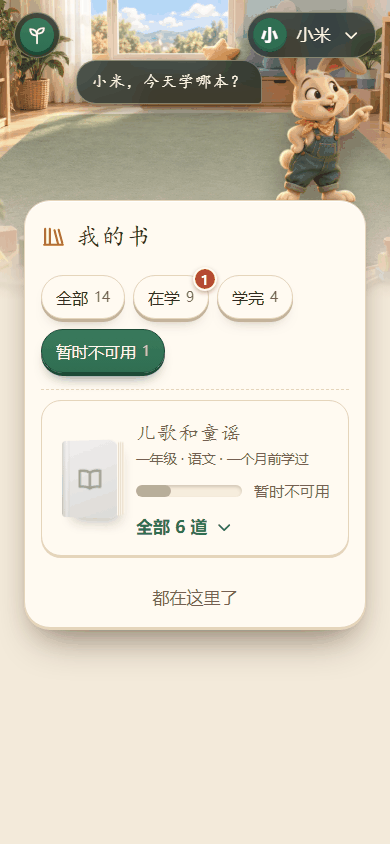
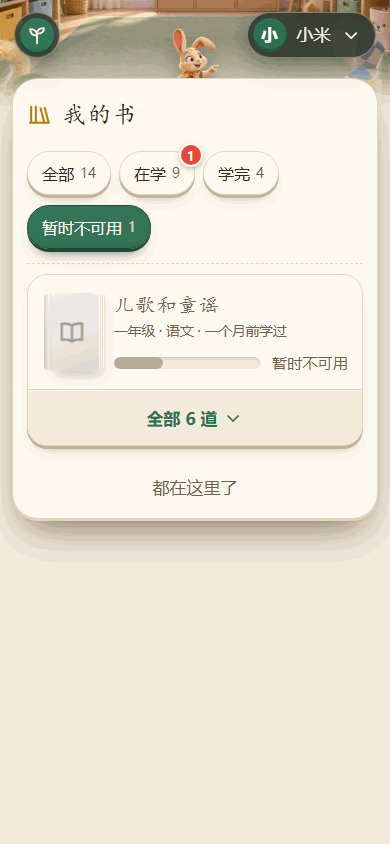
docs(design): make the book card's expand row full width and the child's home top compact (#221)
Each book card ends in a full-width 「全部 n 道」 row and the whole collapsed
card expands it; expanded, that row moves below the problems as the only
「收起」. Unavailable books drop the explanatory line and keep an active
expand row. The home's top is a low scene band with the rabbit peeking over
the shelf card, without the greeting. The opened_at column ships together
with its write on opening a problem.

Claude-Session: https://claude.ai/code/session_0183GQ8FhHwyn6e9ziTU6t6w

diff --git a/docs/design/book-access.md b/docs/design/book-access.md
@@ -1,6 +1,6 @@
 # 孩子只学安排的书，访客看不到题目
 
-- 状态：需求已由维护者 2026-11-12 确认，写进 [REQ-001、REQ-009、REQ-010](../product/requirements.md) 和 [vision.md](../product/vision.md)。登录页、题目页和预览模式的样稿维护者已看过；孩子首页按第四轮意见重画，等维护者确认。
+- 状态：需求已由维护者 2026-11-12 确认，写进 [REQ-001、REQ-009、REQ-010](../product/requirements.md) 和 [vision.md](../product/vision.md)。登录页、题目页和预览模式的样稿维护者已确认；孩子首页按第五轮意见重画，等维护者确认。
 - 需求：REQ-001、REQ-009、REQ-010（2026-11-12 修改），REQ-002、REQ-011。样稿见 [#221 记录](../evidence/221/README.md)，变更原因见 [变更记录](../changes/2026-11-12-book-access.md)。
 - 涉及：`libs/contracts`（打开一道题的回答、拒绝的回答、预览作答、孩子的书）、`apps/api`（题目和题目下面全部接口的访问检查、预览作答、孩子的书的筛选、排序和新书标记；去掉公开题库）、`apps/web`（登录首页、孩子首页和顶栏、题目页、预览模式、凸起的公共部件、家长书架的空状态）、`e2e`、`visual`。书、书的状态和安排沿用 [家长书架与按书安排练习](bookshelf.md)。
 
@@ -11,7 +11,7 @@
 之后：
 
 - **访客**打开首页看到登录页：孩子登录和家长登录两个页签。打开题目链接只看到「登录后才能打开这道题」，看不到题目的任何内容。
-- **孩子**登录后首页就是自己的空间「我的书」：新安排的书在最上面，「在学」上的红点告诉孩子有几本新书；每本书是一块能展开的凸起卡片，书名、进度条和「全部 n 道」在一起，展开才看到书里的题。只能打开安排给自己的书里的题，没安排的由服务端拒绝。顶栏只有品牌和自己的头像，头像菜单里退出登录。
+- **孩子**登录后首页就是自己的空间「我的书」：书从屏幕上方不远处就开始；新安排的书在最上面，「在学」上的红点告诉孩子有几本新书；每本书是一块能展开的凸起卡片，最下面一整行「全部 n 道」，展开才看到书里的题。只能打开安排给自己的书里的题，没安排的由服务端拒绝。顶栏只有品牌和自己的头像，头像菜单里退出登录。
 - 一道题有两种模式：**做题模式**给孩子，作答、进度和草稿照常记录；**预览模式**给家长，课照常走、答案照常判，什么都不记录。
 - 家长取消安排后，这本书从孩子的首页消失；进度不清零，重新安排后接着原来的进度（#179 的规则不变）。
 
@@ -32,22 +32,22 @@
 
 维护者要整个网站和课堂的画面一样有立体感，孩子首页尤其如此；按钮和部件全站一个样式。本设计画的页面都按下面的做法，家长空间的改版另开 issue：
 
-- **页面顶上是一幅有景深的画**：绘景库里的场景铺满宽度，下沿淡进页面底色，讲课角色站在画里；卡片压在画的下沿上，像放在画里的桌面上。
-- **能按的东西都是同一种凸起**：一层纸色或主色的面、下面一道 3px 的深色边、一层柔和的投影；按下时往下沉 2px、边变成 1px；不能按（加载中、暂时不可用）时变平，没有边和投影。
+- **页面顶上是有景深的画**：绘景库里的场景，下沿淡进页面底色，讲课角色在画里。登录页的画占半屏，角色站在画里；孩子首页的画是一条矮的横幅，卡片压在它的下沿上，角色站在卡片后面探出头，像趴在桌子后面。画只给景深，不占孩子要用的地方。
+- **能按的东西都是同一种凸起**：一层纸色或主色的面、下面一道 3px 的深色边、一层柔和的投影；按下时往下沉 2px、边变成 1px；不能按（加载中、暂时不可用的书里的题）时变平，没有边和投影。
 
-  | 级别         | 用在哪里                                           | 尺寸                          |
-  | ------------ | -------------------------------------------------- | ----------------------------- |
-  | 课堂里的露珠 | 题目页的返回、提示、话筒、开始短片                 | 52px 以上，烟色玻璃           |
-  | 主按钮       | 每页最要紧的一步：登录、「去登录」、「回到我的书」 | 高 48px，主色                 |
-  | 次按钮       | 「加载更多」、「再试一次」                         | 高 48px，纸色                 |
-  | 筹码         | 筛选、登录页签的滑块                               | 高 44px，选中主色、没选中纸色 |
-  | 卡片和列表块 | 孩子首页的书和书里的题、头像菜单里的「退出登录」   | 每行高 48–54px，纸色          |
+  | 级别         | 用在哪里                                                     | 尺寸                          |
+  | ------------ | ------------------------------------------------------------ | ----------------------------- |
+  | 课堂里的露珠 | 题目页的返回、提示、话筒、开始短片                           | 52px 以上，烟色玻璃           |
+  | 主按钮       | 每页最要紧的一步：登录、「去登录」、「回到我的书」           | 高 48px，主色                 |
+  | 次按钮       | 「加载更多」、「再试一次」                                   | 高 48px，纸色                 |
+  | 筹码         | 筛选、登录页签的滑块                                         | 高 44px，选中主色、没选中纸色 |
+  | 卡片和列表块 | 孩子首页的书、书里的题和展开按钮行、头像菜单里的「退出登录」 | 每行高 54–56px，纸色          |
 
   课堂里的按钮可以更大，课堂以外的按钮彼此一样；这些做成 `shared/ui` 的公共部件和令牌，[网站视觉语言](visual-language.md) 随之补上这一节。
 
 - **输入框和进度条的槽是凹下去的**：内侧上沿一道浅投影。
 - **书是立体的**：封面往里转一点角度，左边一道书脊的明暗，右边露出书页的边。
-- **画面上的字和按钮是烟色玻璃**：顶栏的品牌和头像、角色的对白气泡、题目页的提示卡都用 `--dew-*` 令牌，和课堂里的控件一样。
+- **画面上的字和按钮是烟色玻璃**：顶栏的品牌和头像、题目页的提示卡都用 `--dew-*` 令牌，和课堂里的控件一样。
 - 打开「减少动态效果」时只去掉动效，凸起、投影和景深都保留。
 
 ## 页面
@@ -74,11 +74,11 @@
 
 ### 首页：登录的孩子
 
-**顶栏**：叠在画的上沿，左边是品牌（烟色玻璃胶囊里的图标和「小小探索家」，手机上只有图标），点了回到首页顶部；右边是孩子的头像和昵称（烟色玻璃胶囊，带向下的箭头），点了弹出一张凸起的菜单，只有一项「退出登录」。退出后回到首页的登录页，换一个孩子就在那里登录。不放「孩子注册」（已经注册并登录了）、「家长空间」（家长从登录页的家长页签或 `/family` 进去，孩子的屏幕上不需要）和「孩子空间」（首页就是）。
+**顶上**是一条矮的画：白天是玩具教室（`toy-classroom-day`），晚上是雨夜的图书角（`library-corner-rainy`），电脑上高 150px，手机上高 112px，下沿淡进页面底色。没有问候语：书的卡片就是孩子要看的东西，越早出现越好。
 
-**画**：白天是玩具教室（`toy-classroom-day`），晚上是雨夜的图书角（`library-corner-rainy`），小兔站在右边，旁边一个烟色玻璃气泡「小米，今天学哪本？」（孩子的昵称）。
+**顶栏**叠在画上：左边是品牌（烟色玻璃胶囊里的图标和「小小探索家」，手机上只有图标），点了回到首页顶部；右边是孩子的头像和昵称（烟色玻璃胶囊，带向下的箭头），点了弹出一张凸起的菜单，只有一项「退出登录」。退出后回到首页的登录页，换一个孩子就在那里登录。不放「孩子注册」（已经注册并登录了）、「家长空间」（家长从登录页的家长页签或 `/family` 进去，孩子的屏幕上不需要）和「孩子空间」（首页就是）。
 
-**「我的书」卡片**压在画的下沿，标题左边是一排立着的书的图标。卡片里从上到下是筛选、书、加载更多。
+**「我的书」卡片**压在画的下沿（电脑上压进 62px，手机上压进 34px），标题左边是一排立着的书的图标。小兔站在卡片后面，只从卡片上沿探出头和肩：电脑上在卡片右边，手机上在品牌和头像中间；它是装饰，读屏不读。卡片里从上到下是筛选、书、加载更多。
 
 #### 筛选
 
@@ -120,26 +120,31 @@
 
 #### 一本书
 
-每本书是一块凸起的卡片，**收起时整块就是一个按钮**（`aria-expanded`）：
+每本书是一块凸起的卡片，上面是书，最下面一整行是展开按钮：
 
 - 左边立体的封面（没有封面时是默认封面）。
 - 右边书名，下面一行小字「年级 · 科目 · 什么时候」（「今天学过」「3 天前学过」，新书写「刚刚安排」「昨天安排」，打开过没作答的写「还没做」）。
 - 再下面一条**进度条**：凹下的槽里一段凸起的主色，右边写「5 / 12」；学完时整条变成绿色，右边是带勾的「学完」。
-- 最下面「全部 n 道」和向下的箭头。点卡片上任何地方都展开，书里的题不会在收起时露出来，哪一道都不比别的更显眼。
+- 卡片最下面**一整行「全部 n 道」**和向下的箭头：横跨整张卡片、高 56px，和上面隔一道细线，底色比卡片深一点（`--surface-2`），字是主色、加粗、居中。这是卡片上最显眼的一块，手指往哪里落都按得到。
+
+**收起时整张卡片是一个按钮**（`aria-expanded="false"`，`aria-controls` 指向题目列表）：点封面、书名、进度条或最下面那一行都展开。读屏把它读成一个按钮：「拼音乐园，新书，0 / 10，全部 10 道」。收起时书里的题不露出来，哪一道都不比别的更显眼。
 
 **展开时**卡片在页面上原地变长：
 
-- 头部的「全部 n 道」换成「收起」和向上的箭头，头部仍然是收起的按钮。
-- 下面一行一道，列出书里的全部题，所有屏幕上都是一列，题名完整显示、太长就折行；每行是序号、题名，做完的后面一个勾，最右一个向右的箭头，高 54px，整行都能点，点了以做题模式打开这道题。
-- 最后一行再放一个「收起」，长的书翻到底也能收起。
+- 书的下面一行一道，列出书里的全部题，所有屏幕上都是一列，题名完整显示、太长就折行；每行是序号、题名，做完的后面一个勾，最右一个向右的箭头，高 54px，整行都能点，点了以做题模式打开这道题。
+- 「全部 n 道」那一行跟着列表移到最下面，变成**「收起」**和向上的箭头。整张卡片只有这一个「收起」，在列表的最后。
+- 上面的封面、书名和进度条这时不再是按钮：孩子伸手去点第 1 道题时，不会误点到收起。
+- 动画：按下「全部 n 道」，列表从书的下面往下长开（约 250ms），这一行被列表推到底，同时字换成「收起」、箭头转向上；按「收起」反过来，列表合上，这一行回到书的下面、换回「全部 n 道」。收起时书已经滚出屏幕顶的，页面滚回到这本书。打开「减少动态效果」时直接展开和收起，不滚动动画。
+- 键盘：用键盘展开时焦点移到第 1 道题，Tab 一道道往下走到「收起」；收起后焦点在「全部 n 道」上。
 - 不用下拉框或弹出层：手指在页面上上下滑就能看完，点哪一行就进哪一道题。
-- 一次只展开一本书：展开另一本时，前一本收起，页面保持刚点的那本书的书名在屏幕里。
+- 一次只展开一本书：展开另一本时，前一本收起，页面保持刚点的那本书在屏幕里。
 - 展开的是哪本书写进地址（`&open=<书 id>`），从题目页返回时还展开着、停在原来的位置。
 
 **暂时不可用的书**：
 
-- 卡片变平（没有凸起的边），封面变灰；书名、小字和右边的「暂时不可用」都是同一种灰色、正常字重；进度条变灰，不是主色也不是绿色。
-- 照样能展开，看到书里有哪些题、做完的打勾。展开后列表最上面一行写「这本书暂时不可用，里面的题先打不开。」，题目行变平、灰色、没有向右的箭头，点了没有反应：理由已经写在列表最上面，不用再弹提示。
+- 卡片照样凸起（它仍然能展开）；封面变灰，书名、小字和进度条右边的「暂时不可用」都是同一种灰色、正常字重；进度条变灰，不是主色也不是绿色。
+- 最下面的「全部 n 道」和展开后的「收起」和别的书一样，是主色、能按的按钮，不变灰。
+- 展开后看到书里有哪些题、做完的打勾；题目行变平、灰色、没有向右的箭头，`aria-disabled`，读屏读「暂时不可用」，点了没有反应。为什么打不开，卡片上已经写着「暂时不可用」，列表里不再重复一行说明，也不弹提示。
 
 #### 加载更多
 
@@ -307,6 +312,7 @@ book_assignments
 - 取消安排删除这一行，再安排插入新的一行，`opened_at` 是空，所以又是新书。
 - 不写进家庭导出：它只决定首页上的新书标记，不是学习记录。删除家庭时跟着这一行一起删除；备份的逐表行数不变。
 - 迁移的编号排在 #217、#164 的迁移之后，合并时按顺序重排。
+- 这一列、首页的新书标记和打开题时的写入一起上线：只有列和标记、没有写入的话，孩子打开过的书也会一直显示成新书。
 
 ## 不受保护的部分
 
@@ -316,7 +322,8 @@ book_assignments
 
 - `apps/api`：先做一个不改行为的重构，让题目下面的孩子接口（作答、草稿和三个 AI 接口）都从同一个「孩子 + 题目」入口进来，现在它只确认孩子会话；之后访问检查只加在这个入口里。打开一道题由外层的组装文件按会话选孩子或家长的判断，再交给 `catalog` 的路由；`catalog` 不依赖 `learning`。预览作答放在 `learning` 里，和孩子作答共用判定。孩子的书的筛选、计数、新书和排列是 `learning/domain/bookshelf.ts` 里的纯函数。
 - `libs/contracts`：`ProblemOpening`、`ProblemAccessDenied`、预览作答的请求和回答；孩子的书的 `counts`、`studiedAt`、`fresh` 和 `books` 参数；去掉 `CatalogResponse`。
-- `apps/web`：凸起的按钮、筹码、卡片、列表块、进度条和立体封面做成 `shared/ui` 的公共部件；首页按会话选登录页或「我的书」，登录页复用 `AccountLayout`、孩子和家长的登录组件；孩子的顶栏替换现在的网站导航，`/child` 转到首页；书的卡片头部是展开按钮（`aria-expanded`、`aria-controls` 指向题目列表）；加载方式按 `(pointer: coarse)` 选自动加载或按钮；`ProblemPage` 先看会话，再按 `mode` 和 `reason` 选画法；课堂页面收到的不再是可有可无的 `csrf`，而是「做题模式（孩子的 CSRF）」或「预览模式（家长的 CSRF）」两种之一：预览模式用同一个画面和同一套反馈，作答和提示走预览接口，不放话筒、提问和草稿，加上「预览」标记。
+- `apps/web`：凸起的按钮、筹码、卡片、列表块、进度条和立体封面做成 `shared/ui` 的公共部件；首页按会话选登录页或「我的书」，登录页复用 `AccountLayout`、孩子和家长的登录组件；孩子的顶栏替换现在的网站导航，`/child` 转到首页；加载方式按 `(pointer: coarse)` 选自动加载或按钮；`ProblemPage` 先看会话，再按 `mode` 和 `reason` 选画法；课堂页面收到的不再是可有可无的 `csrf`，而是「做题模式（孩子的 CSRF）」或「预览模式（家长的 CSRF）」两种之一：预览模式用同一个画面和同一套反馈，作答和提示走预览接口，不放话筒、提问和草稿，加上「预览」标记。
+- 书的卡片是一个展示组件，只收书和「展开 / 收起」「打开第几道题」的回调：展开按钮是卡片里唯一的 `<button>`（`aria-expanded`、`aria-controls`），放在题目列表之后，收起时整张卡片的点击也交给它；题目列表的展开用高度过渡，`prefers-reduced-motion` 时不过渡。
 - 题目页的 `LessonRoute` 和 #210 的课堂记录都改这一带，合并时按顺序处理。
 
 ## 测试
@@ -331,7 +338,7 @@ book_assignments
   - 取消安排后 403，重新安排后 200，进度不变，又是新书。
   - 孩子的书：`counts`、`studiedAt`、`fresh`、每个筛选、顺序和分页。
   - 迁移：从上一个迁移带数据升级后，已有的安排 `opened_at` 为空。
-- 网页：凸起部件的每种状态（平常、按下、选中、不能按）；登录页两个页签（孩子、家长、家长已登录、「忘了 PIN」展开）；孩子顶栏的头像菜单；孩子首页（每个筛选、红点、「新」字、进度条的三种样子、书的卡片收起和展开、一次只展开一本、暂时不可用的书收起和展开、没有安排、筛选里没有书、加载中、加载失败、都加载完）的 story 和测试；题目页每种情况的测试，包括课堂中途收到 403；`next` 的校验（站内题目地址、别的地址、坏的写法、`/child?next=` 转过来）；预览模式不放话筒、提问和草稿，作答走预览接口，反馈和做题模式一样，「预览」标记一直在。
+- 网页：凸起部件的每种状态（平常、按下、选中、不能按）；登录页两个页签（孩子、家长、家长已登录、「忘了 PIN」展开）；孩子顶栏的头像菜单；孩子首页（每个筛选、红点、「新」字、进度条的三种样子、没有安排、筛选里没有书、加载中、加载失败、都加载完）的 story 和测试；书的卡片：收起时点卡片任何地方都展开、展开后只有列表最后一个「收起」、书的部分不再收起、键盘展开后焦点在第 1 道题、一次只展开一本、暂时不可用的书收起和展开（题目点了没有反应、「收起」能按）；题目页每种情况的测试，包括课堂中途收到 403；`next` 的校验（站内题目地址、别的地址、坏的写法、`/child?next=` 转过来）；预览模式不放话筒、提问和草稿，作答走预览接口，反馈和做题模式一样，「预览」标记一直在。
 - e2e（服务器的回答由测试代答，不需要数据库）：访客打开首页只看到登录页，不请求题目接口；访客打开题目链接看到登录提示，不下载这道题的课堂代码和绘景；从题目页登录后回到这道题；孩子展开新书、打开一道题，返回后红点消失，只展开不消；手机上滑到底自动加载下一批，电脑上点「加载更多」；家长预览从片名卡走到作答，不请求草稿和作答接口。现在按访客身份打开题目的用例改成用登录并安排了这本书的孩子（`e2e/assigned-child.ts` 代答孩子会话、孩子的书和打开一道题），#126 等后来的题目用例也用它。
 - 视觉基准：登录页两个页签（白天、晚上、手机）；孩子首页（白天、晚上、手机、展开一本书、电脑加载中、手机加载中、暂时不可用的书收起和展开、头像菜单、没有安排）；题目页的三种提示；预览模式的片名卡和作答。现在的「探索」和「孩子空间」两组基准换成这些。
 
@@ -348,12 +355,16 @@ book_assignments
 - **没安排的书回答 404**：和「题目不存在」分不开，页面没法提示请家长安排；书名和安排给谁都不说，403 不泄露别人的信息。
 - **孩子首页保留年级、学科、分类三个选择**：选择框表达不了新书在前、最近学过的在前；按书排成一列和 #179 的「我的练习」一致。
 - **孩子的顶栏保留孩子空间、孩子注册和家长空间**：首页就是孩子的空间，孩子已经注册，家长空间不是孩子要去的地方；只留头像菜单里的退出。
+- **孩子首页顶上一大幅画和问候语「小米，今天学哪本？」**：占了大半屏，那句话也没告诉孩子什么；画缩成一条矮的横幅，小兔从卡片后面探头，立体感还在，书从屏幕上方不远处就开始。
 - **单独一个「新安排」筛选**：维护者不要；新书就是在学的书，排在最上面，红点放在「在学」上。
 - **展开题目列表就算不新了**：孩子展开看一眼就消掉了提醒；要打开一道题才算开始做这本书（维护者确认），也就不需要单独的「标成打开过」接口。
 - **收起时露出第 1 道题**：第 1 道题因此比别的题更显眼；收起时只有书名、进度和「全部 n 道」。
+- **只有「全部 n 道」几个字能点**：字小，孩子的手指容易点空；整行横跨卡片，收起时整张卡片都能点。
+- **列表上下各一个「收起」**：两个一样的按钮让孩子分不清；展开时按钮跟着列表移到最后，只有一个。
 - **把书里的题全部摆在页面上**：几本书就把页面拉得很长，题名还被挤成几个字。
 - **用下拉框或弹出层列题目**：手机上下拉框的选项小、不好滑，弹出层盖住书架；在页面上原地展开，一行一道，手指滑和点都顺手。
-- **暂时不可用的书点题时弹提示**：理由已经写在展开的列表最上面，再弹一次是重复的打扰。
+- **暂时不可用的书在展开的列表里再写一行理由，或者点题时弹提示**：卡片上已经写着「暂时不可用」，再说一遍是重复的打扰。
+- **暂时不可用的书的展开按钮也变灰**：书仍然能展开看题，按钮灰了像是按不动。
 - **手机上也用「加载更多」按钮**：手机上滑到底自然就该接着出现；电脑上滚轮停下来常常是还在看，按钮让孩子自己决定。
 - **预览不判答案、只看短片**：家长看不到孩子在作答那一步会遇到什么；判定在服务器上、不记录，代价是一个只读的接口。
 - **预览里也能语音作答和提问**：要调用付费的 AI，家庭授权管的是孩子的输入；预览用点选就够看清这一步。

diff --git a/docs/evidence/221/README.md b/docs/evidence/221/README.md
@@ -1,16 +1,17 @@
 # #221 孩子只学安排的书，访客看不到题目：样稿
 
-[#221](https://github.com/juanchaopan/education/issues/221) 的样稿。设计见 [孩子只学安排的书，访客看不到题目](../../design/book-access.md)。登录页、题目页和预览模式维护者已看过；孩子首页按第四轮意见重画，待维护者确认。
+[#221](https://github.com/juanchaopan/education/issues/221) 的样稿。设计见 [孩子只学安排的书，访客看不到题目](../../design/book-access.md)。登录页、题目页和预览模式维护者已确认；孩子首页按第五轮意见重画，待维护者确认。
 
 ## 怎么做的
 
-样稿是一次性的 HTML，直接用网站的设计令牌（`apps/web/src/styles/tokens.css`）和绘景库里的图（傍晚的画室、玩具教室、雨夜的图书角、清晨的菜园和小兔），按设计里「立体感和统一的按钮」一节画：页面顶上是有景深的画，能按的东西是同一种凸起，输入框和进度条的槽凹下，书是立体的，画上的字和按钮是烟色玻璃。图标照 `shared/ui/icons.tsx` 画。用 Playwright 的 Chromium 截图：桌面 1280 宽，手机竖放 390×844、横放 844×390，减弱动画；截图转成 256 色 PNG 以减小文件。样稿代码不进入仓库。
+样稿是一次性的 HTML，直接用网站的设计令牌（`apps/web/src/styles/tokens.css`）和绘景库里的图（傍晚的画室、玩具教室、雨夜的图书角、清晨的菜园和小兔），按设计里「立体感和统一的按钮」一节画：登录页一半是有景深的画，孩子首页顶上是一条矮的画、小兔从卡片后面探头；能按的东西是同一种凸起，输入框和进度条的槽凹下，书是立体的，画上的字和按钮是烟色玻璃。图标照 `shared/ui/icons.tsx` 画。用 Playwright 的 Chromium 截图：桌面 1280 宽，手机竖放 390×844、横放 844×390，减弱动画；截图转成 256 色 PNG（八叉树取色，红点和「新」字保持红色）以减小文件。样稿代码不进入仓库。
 
 和正式页面的差别：
 
 - 标题用 Windows 的系统楷体代替霞鹜文楷，字形略有不同。
 - 孩子「小米」、书名、题目、进度和学习时间是样稿用的例子；书的封面都画成默认封面。
 - 预览作答那张图的题目、选项和点选的样子是示意，正式页面用每道题自己的作答部件。
+- 展开和收起的动画画不进截图，按设计里「一本书」一节的文字做。
 
 ## 截图
 
@@ -28,17 +29,17 @@
 
 样稿里小米有 14 本书，第一批 6 本按顺序是：「拼音乐园」刚刚安排、还没打开过其中的题（新书）；「学而思」5/12、今天学过；「古诗诵读」12/13、3 天前学过；「数的分与合」2/8、上周学过；「口算练习」1/20、两周前学过；「思维训练」学完。另有一本暂时不可用的「儿歌和童谣」。
 
-| 截图                                                                           | 画的是什么                                                                                                                                                                                                                                         |
-| ------------------------------------------------------------------------------ | -------------------------------------------------------------------------------------------------------------------------------------------------------------------------------------------------------------------------------------------------- |
-| [child-home-desktop.png](child-home-desktop.png)                               | 桌面白天：顶栏只有品牌和小米的头像；筛选「全部 14」选中、「在学 9」右上角红点 1、「学完 4」、「暂时不可用 1」；新书「拼音乐园」在最上面，封面上一枚红色「新」字；每本书是一块凸起的卡片：封面、书名、进度条和「全部 n 道」；底部凸起的「加载更多」 |
-| [child-home-night-desktop.png](child-home-night-desktop.png)                   | 同上，晚上主题，画换成雨夜的图书角                                                                                                                                                                                                                 |
-| [child-home-loading-desktop.png](child-home-loading-desktop.png)               | 桌面，点了「加载更多」：按钮沉下去、变平，三颗圆点和「加载中…」                                                                                                                                                                                    |
-| [child-home-phone.png](child-home-phone.png)                                   | 手机：筛选折成两行；书的卡片一列；滑到底时自动加载，底部一张骨架书卡和「加载中…」                                                                                                                                                                  |
-| [child-home-open-phone.png](child-home-open-phone.png)                         | 手机，展开「学而思」：卡片头部换成「收起」，下面 12 道题一行一道、题名完整，做完的打勾，最后一行「收起」                                                                                                                                           |
-| [child-home-unavailable-phone.png](child-home-unavailable-phone.png)           | 手机，选中「暂时不可用」：「儿歌和童谣」卡片变平、封面变灰，书名、小字和「暂时不可用」同一种灰色、正常字重，进度条变灰                                                                                                                             |
-| [child-home-unavailable-open-phone.png](child-home-unavailable-open-phone.png) | 手机，展开「儿歌和童谣」：最上面一行「这本书暂时不可用，里面的题先打不开。」，题目行变平、灰色、没有箭头，做完的照样打勾                                                                                                                           |
-| [child-home-menu-phone.png](child-home-menu-phone.png)                         | 手机，点了右上角小米的头像：凸起的菜单里只有「退出登录」                                                                                                                                                                                           |
-| [child-home-empty-desktop.png](child-home-empty-desktop.png)                   | 桌面，还没有安排的书：没有筛选，空状态「家长还没有给你安排书」                                                                                                                                                                                     |
+| 截图                                                                           | 画的是什么                                                                                                                                                                                                                                                                                                         |
+| ------------------------------------------------------------------------------ | ------------------------------------------------------------------------------------------------------------------------------------------------------------------------------------------------------------------------------------------------------------------------------------------------------------------ |
+| [child-home-desktop.png](child-home-desktop.png)                               | 桌面白天：顶上一条矮的玩具教室，顶栏只有品牌和小米的头像，小兔从「我的书」卡片右上方探头；筛选「全部 14」选中、「在学 9」右上角红点 1、「学完 4」、「暂时不可用 1」；新书「拼音乐园」在最上面，封面上一枚红色「新」字；每本书一块凸起的卡片：封面、书名、进度条，最下面一整行「全部 n 道」；底部凸起的「加载更多」 |
+| [child-home-night-desktop.png](child-home-night-desktop.png)                   | 同上，晚上主题，画换成雨夜的图书角                                                                                                                                                                                                                                                                                 |
+| [child-home-loading-desktop.png](child-home-loading-desktop.png)               | 桌面，点了「加载更多」：按钮沉下去、变平，三颗圆点和「加载中…」                                                                                                                                                                                                                                                    |
+| [child-home-phone.png](child-home-phone.png)                                   | 手机：画高 112px，小兔在品牌和头像中间探头，「我的书」从屏幕上方开始；筛选折成两行；书的卡片一列，每张最下面一整行「全部 n 道」；滑到底时自动加载，底部一张骨架书卡和「加载中…」                                                                                                                                   |
+| [child-home-open-phone.png](child-home-open-phone.png)                         | 手机，展开「学而思」：书的下面 12 道题一行一道、题名完整，做完的打勾；「全部 12 道」那一行移到最后变成「收起」，整张卡片只有这一个「收起」                                                                                                                                                                         |
+| [child-home-unavailable-phone.png](child-home-unavailable-phone.png)           | 手机，选中「暂时不可用」：「儿歌和童谣」封面变灰，书名、小字和「暂时不可用」同一种灰色、正常字重，进度条变灰；最下面的「全部 6 道」照常是主色、能按                                                                                                                                                                |
+| [child-home-unavailable-open-phone.png](child-home-unavailable-open-phone.png) | 手机，展开「儿歌和童谣」：题目行变平、灰色、没有箭头，做完的照样打勾，列表里没有说明行；最后一行「收起」是主色、能按                                                                                                                                                                                               |
+| [child-home-menu-phone.png](child-home-menu-phone.png)                         | 手机，点了右上角小米的头像：凸起的菜单里只有「退出登录」，压在卡片上面                                                                                                                                                                                                                                             |
+| [child-home-empty-desktop.png](child-home-empty-desktop.png)                   | 桌面，还没有安排的书：没有筛选，空状态「家长还没有给你安排书」                                                                                                                                                                                                                                                     |
 
 ### 题目页
 

diff --git a/docs/changes/2026-11-12-book-access.md b/docs/changes/2026-11-12-book-access.md
@@ -1,9 +1,9 @@
 # 孩子只学安排的书，访客看不到题目
 
 - 日期：2026-11-12
-- 状态：需求已由维护者确认并写进需求文档；登录页、题目页和预览模式的样稿维护者已看过，孩子首页按第四轮意见重画，等维护者确认。
+- 状态：需求已由维护者确认并写进需求文档；登录页、题目页和预览模式的样稿维护者已确认，孩子首页按第五轮意见重画，等维护者确认。
 - 级别：L2 需求变更（REQ-001 浏览题库的对象，REQ-009 去掉自由复习、加上做题模式和预览模式、孩子首页的顺序和新书，REQ-010 返回的去处）；设计冲击 D1（题目下面的孩子接口先收拢到同一个「孩子 + 题目」入口，再加访问检查；课堂页面收到的会话从可有可无的 CSRF 改成做题模式或预览模式之一）
-- 来源：[#221](https://github.com/juanchaopan/education/issues/221)。维护者 2026-11-12：「什么叫自由复习？应该没有这个东西的，只有家长给你安排过这本书，你才能够去学」；访客「什么都看不到」。看过四轮样稿后的决定见下面。
+- 来源：[#221](https://github.com/juanchaopan/education/issues/221)。维护者 2026-11-12：「什么叫自由复习？应该没有这个东西的，只有家长给你安排过这本书，你才能够去学」；访客「什么都看不到」。看过五轮样稿后的决定见下面。
 
 ## 变了什么
 
@@ -12,7 +12,7 @@
 之后：
 
 - 首页对访客是登录页：孩子登录（默认）和家长登录两个页签。
-- 孩子登录后首页就是自己的空间「我的书」：顶栏只有品牌和头像菜单（退出登录）；新书排在最上面，「在学」筛选上的红点是新书的本数，孩子打开新书里的一道题后不再算新书；每本书是一块能展开的凸起卡片，封面、书名、进度条和「全部 n 道」在一起，展开后一行一道列出书里的题；暂时不可用的书置灰，能展开看题但打不开；手机上滑到底自动加载，电脑上点「加载更多」。`/child` 转到首页。
+- 孩子登录后首页就是自己的空间「我的书」：顶上一条矮的画，顶栏只有品牌和头像菜单（退出登录），书从屏幕上方不远处开始；新书排在最上面，「在学」筛选上的红点是新书的本数，孩子打开新书里的一道题后不再算新书；每本书是一块能展开的凸起卡片，最下面一整行「全部 n 道」，展开后一行一道列出书里的题，这一行移到最后变成「收起」；暂时不可用的书置灰，能展开看题但打不开；手机上滑到底自动加载，电脑上点「加载更多」。`/child` 转到首页。
 - 一道题有做题模式和预览模式。孩子只能以做题模式打开安排给自己的书里的题；打开一道题、作答、草稿、变化题和 AI 接口都由服务端检查安排，没安排回答 403 `unassigned`，暂时不可用回答 403 `unavailable`。家长以预览模式打开：课照常走、答案照常判、反馈和做题模式一样，什么都不记录，不调用 AI，画面上标着「预览」。公开题库接口删除。
 - 孩子从题目链接登录后回到这道题。
 - 本次画的页面都有和课堂画面一样的立体感，课堂以外的按钮和部件是同一种凸起。
@@ -31,11 +31,12 @@
 
 - 首页是登录页，照家长账号页面的版式，孩子登录和家长登录两个页签，默认孩子登录；孩子登录仍用家庭码、昵称和六位 PIN，KEY 只用于注册。孩子注册、家长注册、找回密码的页面照现在的样子用。
 - 孩子的顶栏只留品牌和头像菜单；首页就是孩子的空间。
+- 孩子首页顶上只是一条矮的画，小兔从「我的书」卡片后面探头，没有问候语，书从屏幕上方不远处开始。
 - 孩子首页：新书（还没打开过其中的题）排在最前面、新安排的在前；其余没学完的按最近学过（最近一次提交作答）排；然后是学完的；暂时不可用的置灰放在最后。筛选是全部（默认）、在学、学完和暂时不可用（只在有这样的书时出现），没有单独的「新安排」筛选，新书的本数用红色实心圆标在「在学」上。
 - 孩子打开新书里的任意一道题后才不算新书，只展开题目列表不算；新书在服务器打开题目时消掉，不另设接口。
 - 进度保留「5 / 12」的数字，用进度条表示。
-- 每本书一块凸起的卡片，书名和「全部 n 道」是同一个展开按钮，收起时不露任何一道题；展开后所有屏幕一列、题名完整；为手指设计，不用下拉框。
-- 暂时不可用的书：「暂时不可用」和书名同一种灰色、正常字重，进度条变灰；能展开看题，题目打不开。
+- 每本书一块凸起的卡片，收起时整张卡片是一个展开按钮，最下面一整行「全部 n 道」，不露任何一道题；展开后所有屏幕一列、题名完整，这一行移到列表最后变成「收起」，整张卡片只有这一个「收起」；为手指设计，不用下拉框。
+- 暂时不可用的书：「暂时不可用」和书名同一种灰色、正常字重，进度条变灰；能展开看题，题目打不开；列表里不再写一行理由；「全部 n 道」和「收起」照常能按，不变灰。
 - 「我的书」每批 6 本，手机上滑到底自动加载，电脑上用凸起的「加载更多」按钮，有「加载中…」。
 - 全站按钮和部件同一种有质感的立体样式，课堂里的可以更大，课堂以外的彼此一样；家长空间的改版另开 issue。
 - 家长可以预览家长书架上所有可用的书：走完整节课、点选作答、按同样的规则判对错，什么都不保存，不用话筒、不向小兔提问、没有 AI 花费。标记只写「预览」，作答的反馈和做题模式一样。需求里写明做题模式和预览模式。
@@ -46,15 +47,15 @@
 
 ## 拆出的工作
 
-都挂在 #221 下，本地叠着做，按顺序开 PR：
+都挂在 #221 下，本地叠着做，按顺序开 PR；每个 PR 单独按顺序合并后产品都是对的：
 
-| PR  | 内容                                                                                                                                                                                                                                                                                        |
-| --- | ------------------------------------------------------------------------------------------------------------------------------------------------------------------------------------------------------------------------------------------------------------------------------------------- |
-| 1   | 文档：本设计、课堂公共部件、视觉语言、家长书架的链接、变更记录、样稿、文档索引（需求和 vision 已在这个分支上）                                                                                                                                                                              |
-| 2   | 重构，不改行为：题目下面的孩子接口都从同一个「孩子 + 题目」入口进来；课堂页面收到的会话换成孩子或访客两种之一                                                                                                                                                                               |
-| 3   | 孩子首页和登录：凸起的公共部件、登录首页、孩子顶栏和「我的书」（筛选、新书、进度条、能展开的书、加载更多）、`/child` 转到首页、题目页的提示、登录后回到题目、家长书架的空状态；孩子的书的接口加筛选、计数、`studiedAt`、`fresh` 和 `opened_at` 的迁移；e2e 用登录并安排了书的孩子；视觉基准 |
-| 4   | 接口的访问检查：打开一道题按会话判断并记下新书被打开、孩子接口拒绝没安排和暂时不可用的书、删除公开题库；集成测试                                                                                                                                                                            |
-| 5   | 预览模式：打开一道题对家长回答 `preview`、预览作答接口、课堂的预览模式和标记；测试、e2e 和视觉基准                                                                                                                                                                                          |
+| PR  | 内容                                                                                                                                                                                                                                                                                                                                            |
+| --- | ----------------------------------------------------------------------------------------------------------------------------------------------------------------------------------------------------------------------------------------------------------------------------------------------------------------------------------------------- |
+| 1   | 文档：本设计、课堂公共部件、视觉语言、家长书架的链接、变更记录、样稿、文档索引（需求和 vision 已在这个分支上）                                                                                                                                                                                                                                  |
+| 2   | 重构，不改行为：题目下面的孩子接口都从同一个「孩子 + 题目」入口进来；课堂页面收到的会话换成孩子或访客两种之一                                                                                                                                                                                                                                   |
+| 3   | 孩子首页和登录：凸起的公共部件、登录首页、孩子顶栏和「我的书」（筛选、新书、进度条、能展开的书、加载更多）、`/child` 转到首页、题目页的提示、登录后回到题目、家长书架的空状态；孩子的书的接口加筛选、计数、`studiedAt`、`fresh`；`opened_at` 的迁移和孩子打开一道题时的写入一起上，不会有书一直显示成新书；e2e 用登录并安排了书的孩子；视觉基准 |
+| 4   | 接口的访问检查：打开一道题按会话判断、孩子接口拒绝没安排和暂时不可用的书、删除公开题库；集成测试                                                                                                                                                                                                                                                |
+| 5   | 预览模式：打开一道题对家长回答 `preview`、预览作答接口、课堂的预览模式和标记；测试、e2e 和视觉基准                                                                                                                                                                                                                                              |
 
 后续 issue：课堂代码、旁白录音和绘景放到会话和安排的检查后面；家长空间按同样的立体感和统一的按钮改版；家长总览和学习记录里的题名改成预览链接。
 
